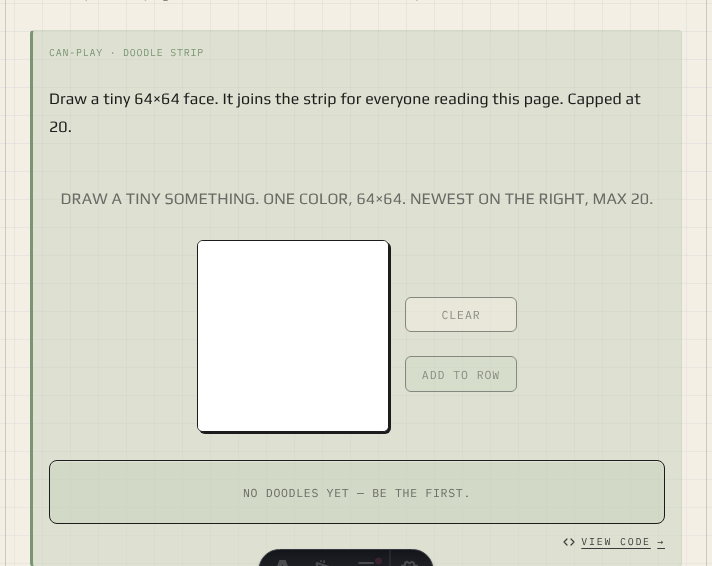
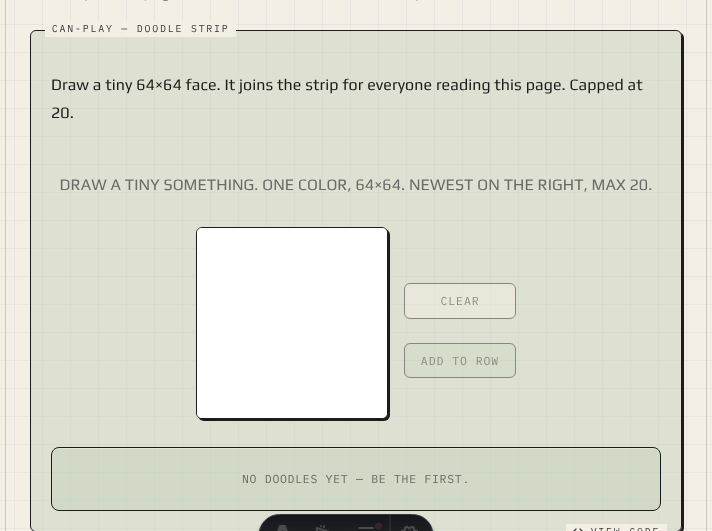
docs: one frame for every live demo; drop the View code arrow
The custom-elements can-play boxes used an older left-rule style while
every other demo used the bordered .ph-demo-slot frame. They now share
that frame, with the label notched into the top border (the separate
kicker line is gone) and the View code label in the bottom border.
Removes the arrow from the View code label per Spencer's design edit.

Claude-Session: https://claude.ai/code/session_01UegqrbZ1QLSMZaowJdjT2G

diff --git a/apps/docs/src/styles/docs-extras.css b/apps/docs/src/styles/docs-extras.css
@@ -1716,7 +1716,8 @@ article pre.astro-code:not([data-ph-copy-enhanced]) {
   border-radius: 6px;
   box-shadow: var(--ph-shadow-brick);
 }
-.ph-demo-slot::before {
+.ph-demo-slot::before,
+.ph-canplay-inline::before {
   content: attr(data-label);
   position: absolute;
   top: -0.65rem;
@@ -2729,23 +2730,24 @@ article pre.astro-code:not([data-ph-copy-enhanced]) {
 }
 
 /* ------------------------------------------------------------------
-   Inline can-play vignettes — scattered through the capabilities page
-   so the page itself becomes a `can-play` showcase. Each block is a
-   margin-style aside, not a heavy framed demo box: a ruled head with a
-   tiny "CAN-PLAY · …" kicker, the demo, and a target id so the can-play
-   section's nav links can jump to it.
+   Inline can-play vignettes — scattered through the custom elements page
+   so the page itself becomes a `can-play` showcase. Each block uses the
+   same frame as .ph-demo-slot (bordered box, data-label notched into the
+   top border), stacked so a caption sits above the demo, plus a target id
+   so the can-play section's nav links can jump to it.
    ------------------------------------------------------------------ */
 
 .ph-canplay-inline {
+  position: relative;
   display: flex;
   flex-direction: column;
   gap: 0.6rem;
   margin: 1.6rem 0;
-  padding: 0.85rem 1rem 1rem;
-  border: 1px solid var(--ph-sage-wash);
-  border-left: 3px solid var(--ph-sage-deep);
-  border-radius: 4px;
+  padding: 1.25rem;
+  border: 1.5px solid var(--ph-ink);
+  border-radius: 6px;
   background: var(--ph-sage-wash);
+  box-shadow: var(--ph-shadow-brick);
   scroll-margin-top: 5rem;
 }
 
@@ -2759,13 +2761,6 @@ article pre.astro-code:not([data-ph-copy-enhanced]) {
   gap: 0.25rem;
 }
 
-.ph-canplay-inline__kicker {
-  font-family: var(--ph-font-mono);
-  font-size: 0.62rem;
-  letter-spacing: 0.08em;
-  text-transform: uppercase;
-  color: var(--ph-sage-deep);
-}
 
 .ph-canplay-inline__caption {
   margin: 0;
@@ -2796,16 +2791,15 @@ article pre.astro-code:not([data-ph-copy-enhanced]) {
   color: var(--ph-ink);
   text-decoration-thickness: 2px;
 }
-.ph-demo-slot > .ph-demo-code-link {
+.ph-demo-slot > .ph-demo-code-link,
+.ph-canplay-inline > .ph-demo-code-link {
   position: absolute;
   right: 0.9rem;
   bottom: -0.6rem;
   padding: 0 0.4rem;
   background: var(--ph-paper);
 }
-.ph-demo-slot:has(> .ph-demo-code-link) {
+.ph-demo-slot:has(> .ph-demo-code-link),
+.ph-canplay-inline:has(> .ph-demo-code-link) {
   margin-bottom: 1.4rem;
-}
-.ph-canplay-inline > .ph-demo-code-link {
-  align-self: flex-end;
 }
